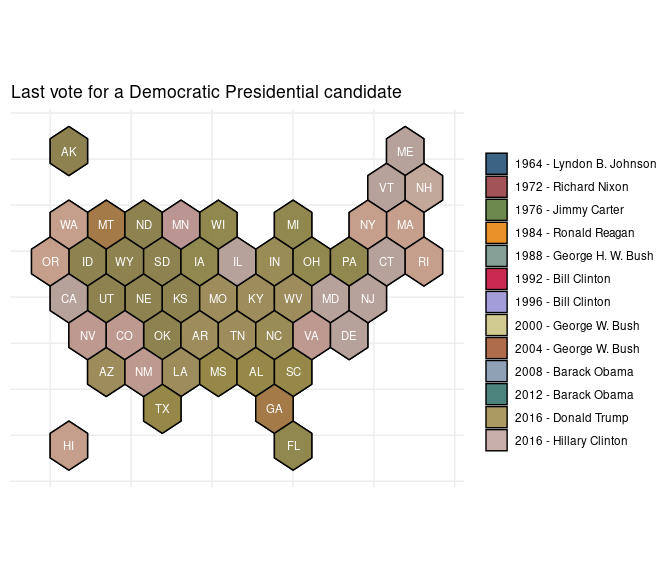
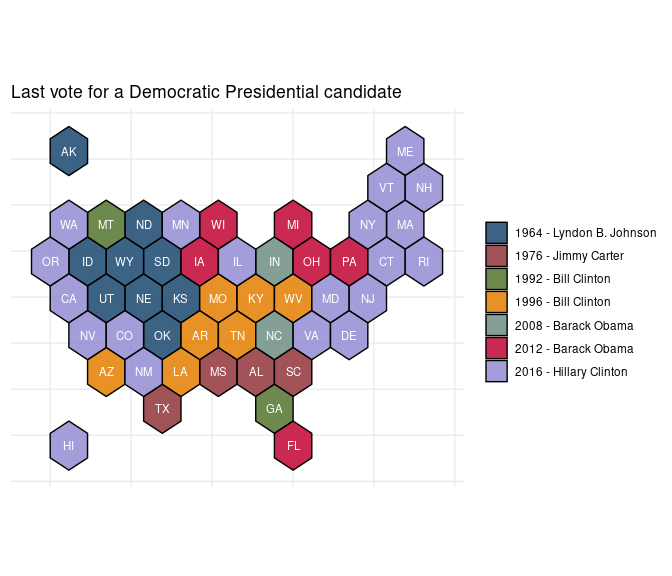
re

diff --git a/all-the-newness.md b/all-the-newness.md
@@ -25,79 +25,11 @@ res <- Rvoteview::voteview_search("impeachment") %>%
 res %>%
   select(-id) %>%
   mutate(article = c('-', 'I', 'II', 'II', 'I')) %>%
-  arrange(date, article)%>% 
-  knitr::kable()
+  arrange(date, article) %>% 
+  #knitr::kable()
+  kableExtra::kbl(format = 'latex' ) %>%
+  kableExtra::kable_classic(full_width = T) #html_font = "Cambria"
 ```
-
-<table>
-<colgroup>
-<col style="width: 6%" />
-<col style="width: 6%" />
-<col style="width: 66%" />
-<col style="width: 11%" />
-<col style="width: 2%" />
-<col style="width: 2%" />
-<col style="width: 4%" />
-</colgroup>
-<thead>
-<tr class="header">
-<th style="text-align: left;">date</th>
-<th style="text-align: left;">bill_number</th>
-<th style="text-align: left;">text</th>
-<th style="text-align: left;">question</th>
-<th style="text-align: right;">yea</th>
-<th style="text-align: right;">nay</th>
-<th style="text-align: left;">article</th>
-</tr>
-</thead>
-<tbody>
-<tr class="odd">
-<td style="text-align: left;">1999-02-12</td>
-<td style="text-align: left;">SRES44</td>
-<td style="text-align: left;">A resolution relating to the censure of William Jefferson Clinton.</td>
-<td style="text-align: left;">On the Motion</td>
-<td style="text-align: right;">43</td>
-<td style="text-align: right;">56</td>
-<td style="text-align: left;">-</td>
-</tr>
-<tr class="even">
-<td style="text-align: left;">1999-02-12</td>
-<td style="text-align: left;">HRES611</td>
-<td style="text-align: left;">A resolution impeaching William Jefferson Clinton, President of the United States, for high crimes and misdemeanors.</td>
-<td style="text-align: left;">Guilty or Not Guilty</td>
-<td style="text-align: right;">50</td>
-<td style="text-align: right;">51</td>
-<td style="text-align: left;">I</td>
-</tr>
-<tr class="odd">
-<td style="text-align: left;">1999-02-12</td>
-<td style="text-align: left;">HRES611</td>
-<td style="text-align: left;">A resolution impeaching William Jefferson Clinton, President of the United States, for high crimes and misdemeanors.</td>
-<td style="text-align: left;">Guilty or Not Guilty</td>
-<td style="text-align: right;">45</td>
-<td style="text-align: right;">56</td>
-<td style="text-align: left;">II</td>
-</tr>
-<tr class="even">
-<td style="text-align: left;">2020-02-05</td>
-<td style="text-align: left;">HRES755</td>
-<td style="text-align: left;">A resolution impeaching Donald John Trump, President of the United States, for high crimes and misdemeanors.</td>
-<td style="text-align: left;">Guilty or Not Guilty</td>
-<td style="text-align: right;">47</td>
-<td style="text-align: right;">53</td>
-<td style="text-align: left;">I</td>
-</tr>
-<tr class="odd">
-<td style="text-align: left;">2020-02-05</td>
-<td style="text-align: left;">HRES755</td>
-<td style="text-align: left;">A resolution impeaching Donald John Trump, President of the United States, for high crimes and misdemeanors.</td>
-<td style="text-align: left;">Guilty or Not Guilty</td>
-<td style="text-align: right;">48</td>
-<td style="text-align: right;">52</td>
-<td style="text-align: left;">II</td>
-</tr>
-</tbody>
-</table>
 
 Here we look at how the 15 US Senators – members of both the 106th &
 116th congresses – voted on Article I from the 2020 trial and Article II
@@ -106,43 +38,6 @@ of the 1999 trial.
 ``` r
 votes <- Rvoteview::voteview_download(res$id)
 ```
-
-``` r
-sens <- Rvoteview:: member_search(chamber= 'Senate', 
-                                  congress = c(106, 116))  ## re-do this piece --         
-
-vs <- votes$votes.long %>% 
-  inner_join(sens %>% 
-               mutate(icpsr = as.character(icpsr))) %>%
-  filter(vname %in% c('RS1060018', 'RS1160461')) %>%
-  select(bioname, state_abbrev, 
-         congress, party_name, vote) %>%
-  mutate(vote = ifelse(vote == 1, 'Yea', 'Nay')) %>%
-  spread(congress, vote) %>%
-  filter(complete.cases(.)) %>%
-  arrange(party_name, `106`) 
-
-vs %>%
-  knitr::kable()
-```
-
-| bioname                             | state\_abbrev | party\_name      | 106 | 116 |
-|:------------------------------------|:--------------|:-----------------|:----|:----|
-| DURBIN, Richard Joseph              | IL            | Democratic Party | Nay | Yea |
-| FEINSTEIN, Dianne                   | CA            | Democratic Party | Nay | Yea |
-| LEAHY, Patrick Joseph               | VT            | Democratic Party | Nay | Yea |
-| MURRAY, Patty                       | WA            | Democratic Party | Nay | Yea |
-| REED, John F. (Jack)                | RI            | Democratic Party | Nay | Yea |
-| SCHUMER, Charles Ellis (Chuck)      | NY            | Democratic Party | Nay | Yea |
-| WYDEN, Ronald Lee                   | OR            | Democratic Party | Nay | Yea |
-| COLLINS, Susan Margaret             | ME            | Republican Party | Nay | Nay |
-| CRAPO, Michael Dean                 | ID            | Republican Party | Yea | Nay |
-| ENZI, Michael B.                    | WY            | Republican Party | Yea | Nay |
-| GRASSLEY, Charles Ernest            | IA            | Republican Party | Yea | Nay |
-| INHOFE, James Mountain              | OK            | Republican Party | Yea | Nay |
-| McCONNELL, Addison Mitchell (Mitch) | KY            | Republican Party | Yea | Nay |
-| ROBERTS, Charles Patrick (Pat)      | KS            | Republican Party | Yea | Nay |
-| SHELBY, Richard C.                  | AL            | Republican Party | Yea | Nay |
 
 ################ 
 
@@ -162,7 +57,7 @@ last_dem <- uspols::uspols_wiki_pres %>%
 candidate since LBJ.
 
 ``` r
-x <- last_dem %>%
+last_sum <- last_dem %>%
   group_by(year, party_win, winner) %>%
   summarise(n = n()) %>%
   ungroup() %>%
@@ -252,7 +147,8 @@ style="     color: rgba(187, 223, 39, 1) !important;font-size: 20px;">;)</span>
 library(sf)
 
 uspols::xsf_TileOutv10 %>% 
-  left_join(last_dem, by ='state_abbrev') %>%
+  left_join(last_dem %>%
+              filter(party_win == 'democrat'), by ='state_abbrev') %>%
   
   ggplot() + 
   geom_sf(aes(fill = label),
@@ -448,49 +344,48 @@ context
 <tbody>
 <tr>
 <td style="text-align:left;">
-text12144
+text2197
 </td>
 <td style="text-align:left;">
-… a less power be presumed to be vested in the \|\| federal government
-\|\| , which has been formed to remedy their weakness ? …
-</td>
-</tr>
-<tr>
-<td style="text-align:left;">
-text26525
-</td>
-<td style="text-align:left;">
-… of France , residing in your state , that the \|\| federal government
-\|\| , respecting his nation , and attentive to the safety …
+… with the appointments of Comptroler of the treasury under the \|\|
+federal Government \|\| , is now on his way to Phila . in …
 </td>
 </tr>
 <tr>
 <td style="text-align:left;">
-text20598
+text1215
 </td>
 <td style="text-align:left;">
-… these , formed the State Governments , the other the \|\| Federal
-Government \|\| . The powers of the Government had been further divided
-…
-</td>
-</tr>
-<tr>
-<td style="text-align:left;">
-text10725
-</td>
-<td style="text-align:left;">
-… Months were not adequate to the Bare Maintainance of the \|\| Federal
-Government \|\| , on the most economical establishment , and in time …
+… family . Our Rulers continue as obstinately opposed to the \|\|
+Federal Government \|\| as ever , and I have no Idea that they …
 </td>
 </tr>
 <tr>
 <td style="text-align:left;">
-text14759
+text354
 </td>
 <td style="text-align:left;">
-… therefrom . To you alone have I declared that the \|\| Federal
-government \|\| , far from manifesting any regard for our generous
-conduct …
+… my opinion . As to the general measures of the \|\| federal government
+\|\| , when I have seen them attacked artfully and insidiously …
+</td>
+</tr>
+<tr>
+<td style="text-align:left;">
+text1454
+</td>
+<td style="text-align:left;">
+… the Providence district , could hold that office under the \|\|
+Federal Government \|\| ; - and the Governour has great influence among
+the …
+</td>
+</tr>
+<tr>
+<td style="text-align:left;">
+text20968
+</td>
+<td style="text-align:left;">
+… which have led to the formation and establishment of a \|\| Federal
+Government \|\| , we esteem your acceptance of the Office of President …
 </td>
 </tr>
 <tr>
@@ -498,19 +393,19 @@ conduct …
 text11513
 </td>
 <td style="text-align:left;">
-… to conciliate the Affections and Esteem for the National or \|\|
-Federal Government \|\| . We therefore , take the Liberty of
-recommending to …
+… before named may be continued after the Organization of the \|\|
+Federal Government \|\| within this State in the Offices which they now
+respectively …
 </td>
 </tr>
 <tr>
 <td style="text-align:left;">
-text1317
+text10560
 </td>
 <td style="text-align:left;">
-… that there was of their committing the Consideration of the \|\|
-Federal Government \|\| to the People in the way prescribed by The Grand
-…
+… office I am desirous of continuing in it under the \|\| federal
+Government \|\| , wishing for the Satisfaction of contributing my part
+of …
 </td>
 </tr>
 </tbody>
